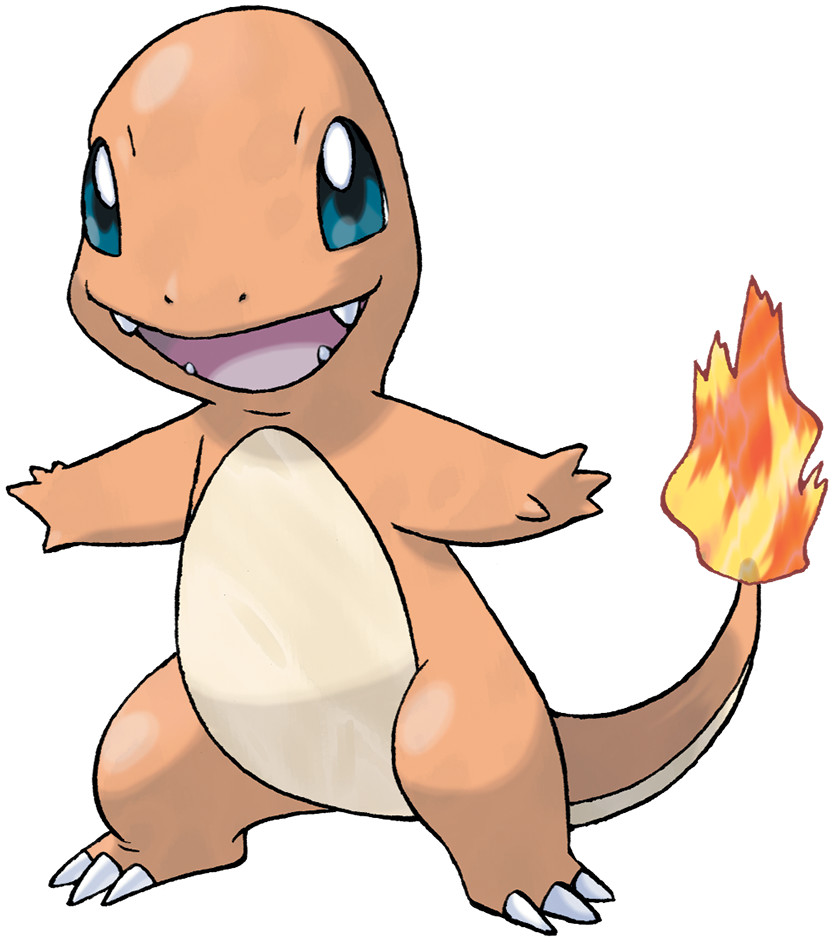
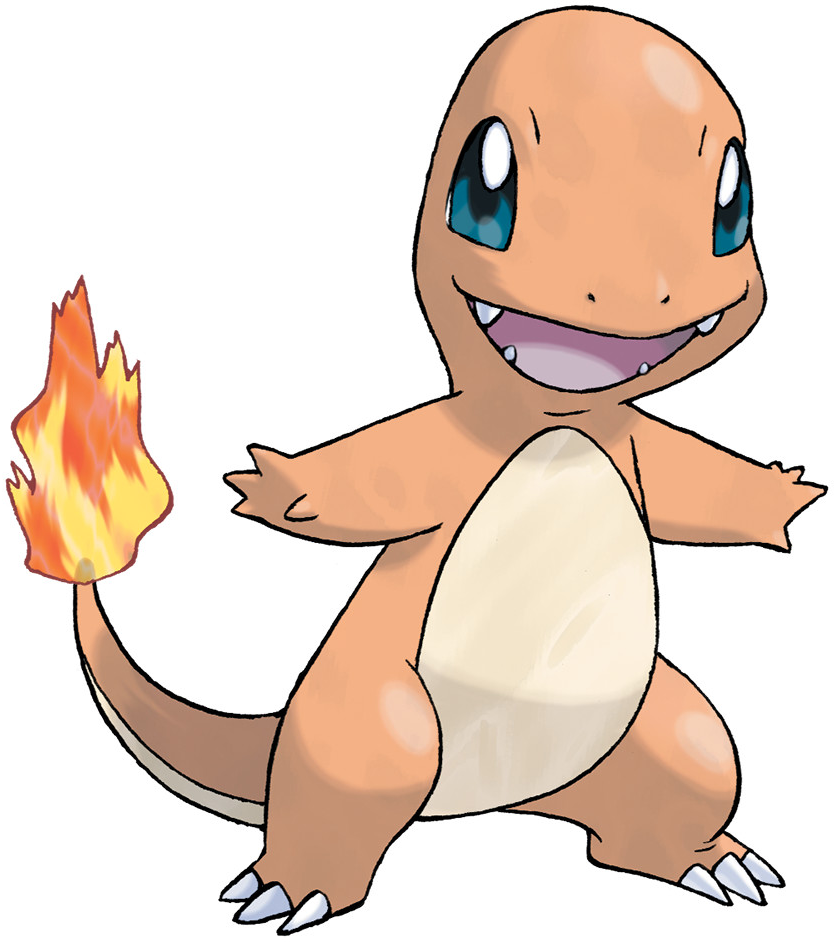
- pokemon now move according to health / defense values (should change to speed...) - added flying pokemon actual flying - pokemon now face the direction theyre going - added day / night background - small fix in collision

diff --git a/frontend/pokino-app/src/app/model/render/enemy.ts b/frontend/pokino-app/src/app/model/render/enemy.ts
@@ -1,32 +1,49 @@
 import * as THREE from 'three';
 import { enemyPhysicsObject } from './physics';
+import {JsonPokemonObject} from "../../api/json-pokemon-object";
+
+
+enum FaceDirection {RIGHT = 1, LEFT = 2};
 
 export class enemy {
 
     //the players mesh
     m_mesh: THREE.Mesh;
     amplitude: number = 10;
+    m_startPosition: THREE.Vector2 = new THREE.Vector2(0,0);
+
+
+    m_velocity: THREE.Vector2;
+    m_movementRadius: number = 30;
+    m_pokemon: JsonPokemonObject;
 
     m_enemyBody: enemyPhysicsObject;
     m_alive: boolean = true;
     playDeathAnimation: boolean = false;
-    help: number = 0;
+    playDeathAnimationTimer: number = 0;
     switchDirections: boolean = false;
     force: number = 10;
     m_pokemonPath = '../../assets/images/pokemons/';
+    m_faceDirection: FaceDirection = FaceDirection.RIGHT;
+    m_changeDirection: boolean = false;
 
-    constructor(name: string, height: number) {
+    constructor(pokemon: JsonPokemonObject, height: number) {
 
         const enemySize = 50;
         const geometry = new THREE.PlaneGeometry(enemySize, enemySize);
         
-        var material = this.getMaterialFromName(name);
-
+        var material = this.getMaterialFromName(pokemon.name);
         this.m_mesh = new THREE.Mesh(geometry, material);
-        //this.m_mesh.translateX(250);
         this.m_mesh.translateY(- height / 2 + enemySize / 2);
+        this.m_mesh.translateX(200);
 
+        this.m_startPosition = new THREE.Vector2(this.m_mesh.position.x, this.m_mesh.position.y);
         this.m_enemyBody = new enemyPhysicsObject(enemySize, enemySize, new THREE.Vector2(this.m_mesh.position.x, this.m_mesh.position.y));
+
+        this.m_pokemon = pokemon;
+        this.m_velocity = new THREE.Vector2(pokemon.healthPoints / 2, 0);
+        this.m_movementRadius = pokemon.defensePoints * 1.6;
+        
     }
 
     getMaterialFromName(name: string): THREE.MeshBasicMaterial{
@@ -62,9 +79,51 @@ export class enemy {
         this.m_mesh.position.set(x, y, 0);
     }
 
+
+    changeDirectionTimer = 0;
+    allowedToChangeDirection = true;
+    startChangeDirectionTimer = false;
+    changeDirectionHelper(){
+        if(this.startChangeDirectionTimer){
+            this.changeDirectionTimer++;
+            if(this.changeDirectionTimer > 20){
+                this.startChangeDirectionTimer = false;
+                this.allowedToChangeDirection = true;
+                this.changeDirectionTimer = 0;
+            }
+        }
+    }
+
     update() {
 
-        this.setPosition(this.m_enemyBody.position.x, this.m_enemyBody.position.y);
+        //check if pokemon is hit
+        if(!this.playDeathAnimation){
+        //apply velocity
+        if(Math.abs(this.m_startPosition.x - this.m_mesh.position.x) > this.m_movementRadius && this.allowedToChangeDirection){
+            this.m_velocity.x *= -1;
+
+            this.allowedToChangeDirection = false;
+            this.startChangeDirectionTimer = true;
+
+            this.m_mesh.scale.x *= -1;
+        }
+        this.changeDirectionHelper();
+        var flyingVel = 0;
+
+        if(this.m_pokemon.type2 == 'Flying'){
+            this.m_enemyBody.position.y = 80;
+        }
+           
+     
+        this.m_enemyBody.velocity =  this.m_velocity;
+      
+
+    }else{
+        this.m_enemyBody.velocity = new THREE.Vector2(0,0);
+    }
+        
+
+
         //handle collision
         if (this.m_enemyBody.collided) {
 
@@ -74,13 +133,15 @@ export class enemy {
         }
 
         if (this.playDeathAnimation) {
-            this.help++;
-            if (this.help > 50) {
+            this.playDeathAnimationTimer++;
+            if (this.playDeathAnimationTimer > 50) {
                 this.playDeathAnimation = false;
                 this.m_alive = false;
             }
-
         }
+
+
+        this.setPosition(this.m_enemyBody.position.x, this.m_enemyBody.position.y);
     }
 
 }

diff --git a/frontend/pokino-app/src/app/view/render/render.component.ts b/frontend/pokino-app/src/app/view/render/render.component.ts
@@ -37,7 +37,7 @@ export class RenderComponent implements OnInit {
     //start timer
     const timerInterval: number = 10;
     const timerIncrement: number = 0.01;
-    const maxTime: number = 1.2;
+    const maxTime: number = 1.4;
     this.interval = setInterval(() => {
       if (this.m_mouseInfo.secondsClicked < maxTime)
         this.m_mouseInfo.secondsClicked += timerIncrement;
@@ -72,7 +72,7 @@ export class RenderComponent implements OnInit {
   m_mouseCursor: THREE.Mesh = new THREE.Mesh();
   updated: boolean = false;
 
-  constructor(private apiService: ApiService) {
+ constructor(private apiService: ApiService) {
 
     this.m_apiHandler = new apiHandler(apiService);
 
@@ -80,7 +80,7 @@ export class RenderComponent implements OnInit {
     this.m_scene.init(this.m_sceneWidth, this.m_sceneHeight);
     this.m_player = new player(this.m_sceneWidth, this.m_sceneHeight);
 
-    this.m_enemy = new enemy(this.m_apiHandler.getRandomPokemonName(), this.m_sceneHeight);
+    this.m_enemy = new enemy(this.m_apiHandler.getRandomPokemon(), this.m_sceneHeight);
 
     this.m_scene.addPlayer(this.m_player);
     this.m_scene.addEnemy(this.m_enemy);
@@ -135,10 +135,9 @@ export class RenderComponent implements OnInit {
   renderScene() {
     //render loop
     window.requestAnimationFrame(() => this.renderScene());
-
     //update
-    this.m_physics.updatePositionAccordingToVeloctiy();
-   
+    
+    this.m_physics.update();
     this.m_enemy.update();
     this.m_scene.update();
     this.m_player.update(this.m_mouseInfo);
@@ -156,13 +155,14 @@ export class RenderComponent implements OnInit {
     if (!this.m_enemy.m_alive) {
       this.m_scene.removeEnemy(this.m_enemy);
       //create new enemy
-      this.m_enemy = new enemy(this.m_apiHandler.getRandomPokemonName(), this.m_sceneHeight);
+      this.m_enemy = new enemy(this.m_apiHandler.getRandomPokemon(), this.m_sceneHeight);
       this.m_scene.addEnemy(this.m_enemy);
       this.m_physics.enemy = this.m_enemy.m_enemyBody;
     }
   
     //render
     this.renderer.render(this.m_scene, this.m_scene.m_camera);
+    
   }
 
   ngOnInit(): void {

diff --git a/frontend/pokino-app/src/app/model/render/physics.ts b/frontend/pokino-app/src/app/model/render/physics.ts
@@ -55,7 +55,7 @@ export class physics {
         this.m_sceneWidth = width;
         this.m_sceneHeight = height;
     }
-    updatePositionAccordingToVeloctiy() {
+    update() {
         var h = 0.1;   //step size
         //apply forces until ball is out of screen
 
@@ -85,9 +85,9 @@ export class physics {
         this.enemy.velocity = new THREE.Vector2(this.enemy.velocity.x + h * this.enemy.force.x, this.enemy.velocity.y + h * this.enemy.force.y)
 
         //quick fix for now
-        this.x = this.x + 0.05;
-        var y = 50 * Math.sin(this.x) + 150;
-        this.enemy.position.x = y;
+       // this.x = this.x + 0.05;
+        //var y = 50 * Math.sin(this.x) + 150;
+        //this.enemy.position.x = y;
 
         if (this.checkForCollision()) {
             this.enemy.collided = true;
@@ -106,8 +106,8 @@ export class physics {
         var cy = this.ball.position.y;
         var radius = this.ball.radius;
 
-        var rx = this.enemy.position.x;
-        var ry = this.enemy.position.y;
+        var rx = this.enemy.position.x - this.enemy.width / 2;
+        var ry = this.enemy.position.y - this.enemy.height / 2;
         var rw = this.enemy.width;
         var rh = this.enemy.height;
 

diff --git a/frontend/pokino-app/src/app/model/render/player.ts b/frontend/pokino-app/src/app/model/render/player.ts
@@ -1,3 +1,4 @@
+import { sharedStylesheetJitUrl } from '@angular/compiler';
 import * as THREE from 'three';
 
 import { ball } from "./ball"
@@ -28,7 +29,7 @@ export class player {
 
         this.m_mesh.translateX(- this.m_sceneWidth / 2 + playerWidth / 2);
         this.m_mesh.translateY(- this.m_sceneHeight / 2 + playerHeight / 2);
-        const ballRadius = 20;
+        const ballRadius = 10;
         this.m_ball = new ball(ballRadius, this.m_sceneWidth, this.m_sceneHeight);
     }
 
@@ -51,8 +52,9 @@ export class player {
             mouseInfo.secondsClicked = startTimeForSecondsClicked;
             this.forceapplied = true;
         }
+
+        //clear force after short time!
         if (this.forceapplied) {
-            //I should use a timer for this...
             this.help++;
             if (this.help > 2) {
                 this.m_ball.updateForce(new THREE.Vector2(0, 0), 0);

diff --git a/frontend/pokino-app/src/app/model/render/PokinoScene.ts b/frontend/pokino-app/src/app/model/render/PokinoScene.ts
@@ -13,7 +13,15 @@ export class PokinoScene extends THREE.Scene {
         this.m_camera.position.z = cameraDistanceFromScene;
 
         const loader = new THREE.TextureLoader();
-        const bgTexture = loader.load(this.m_assetPath + 'images/bg.jpg');
+
+        const hours = new Date().getHours() ;
+        const isDayTime = hours > 7 && hours < 20;
+        var bgTexture;
+        if(isDayTime)
+          bgTexture = loader.load(this.m_assetPath + 'images/bg_day.png');
+          else
+          bgTexture = loader.load(this.m_assetPath + 'images/bg_night.png');
+
         this.background = bgTexture;
 
 

diff --git a/frontend/pokino-app/src/app/model/render/apiHandler.ts b/frontend/pokino-app/src/app/model/render/apiHandler.ts
@@ -16,4 +16,9 @@ export class apiHandler{
         this.getRandomPokemonJson();
         return this.pokemon.name;
     }
+
+    getRandomPokemon(): JsonPokemonObject{
+        this.getRandomPokemonJson();
+        return this.pokemon;
+    }
 }
